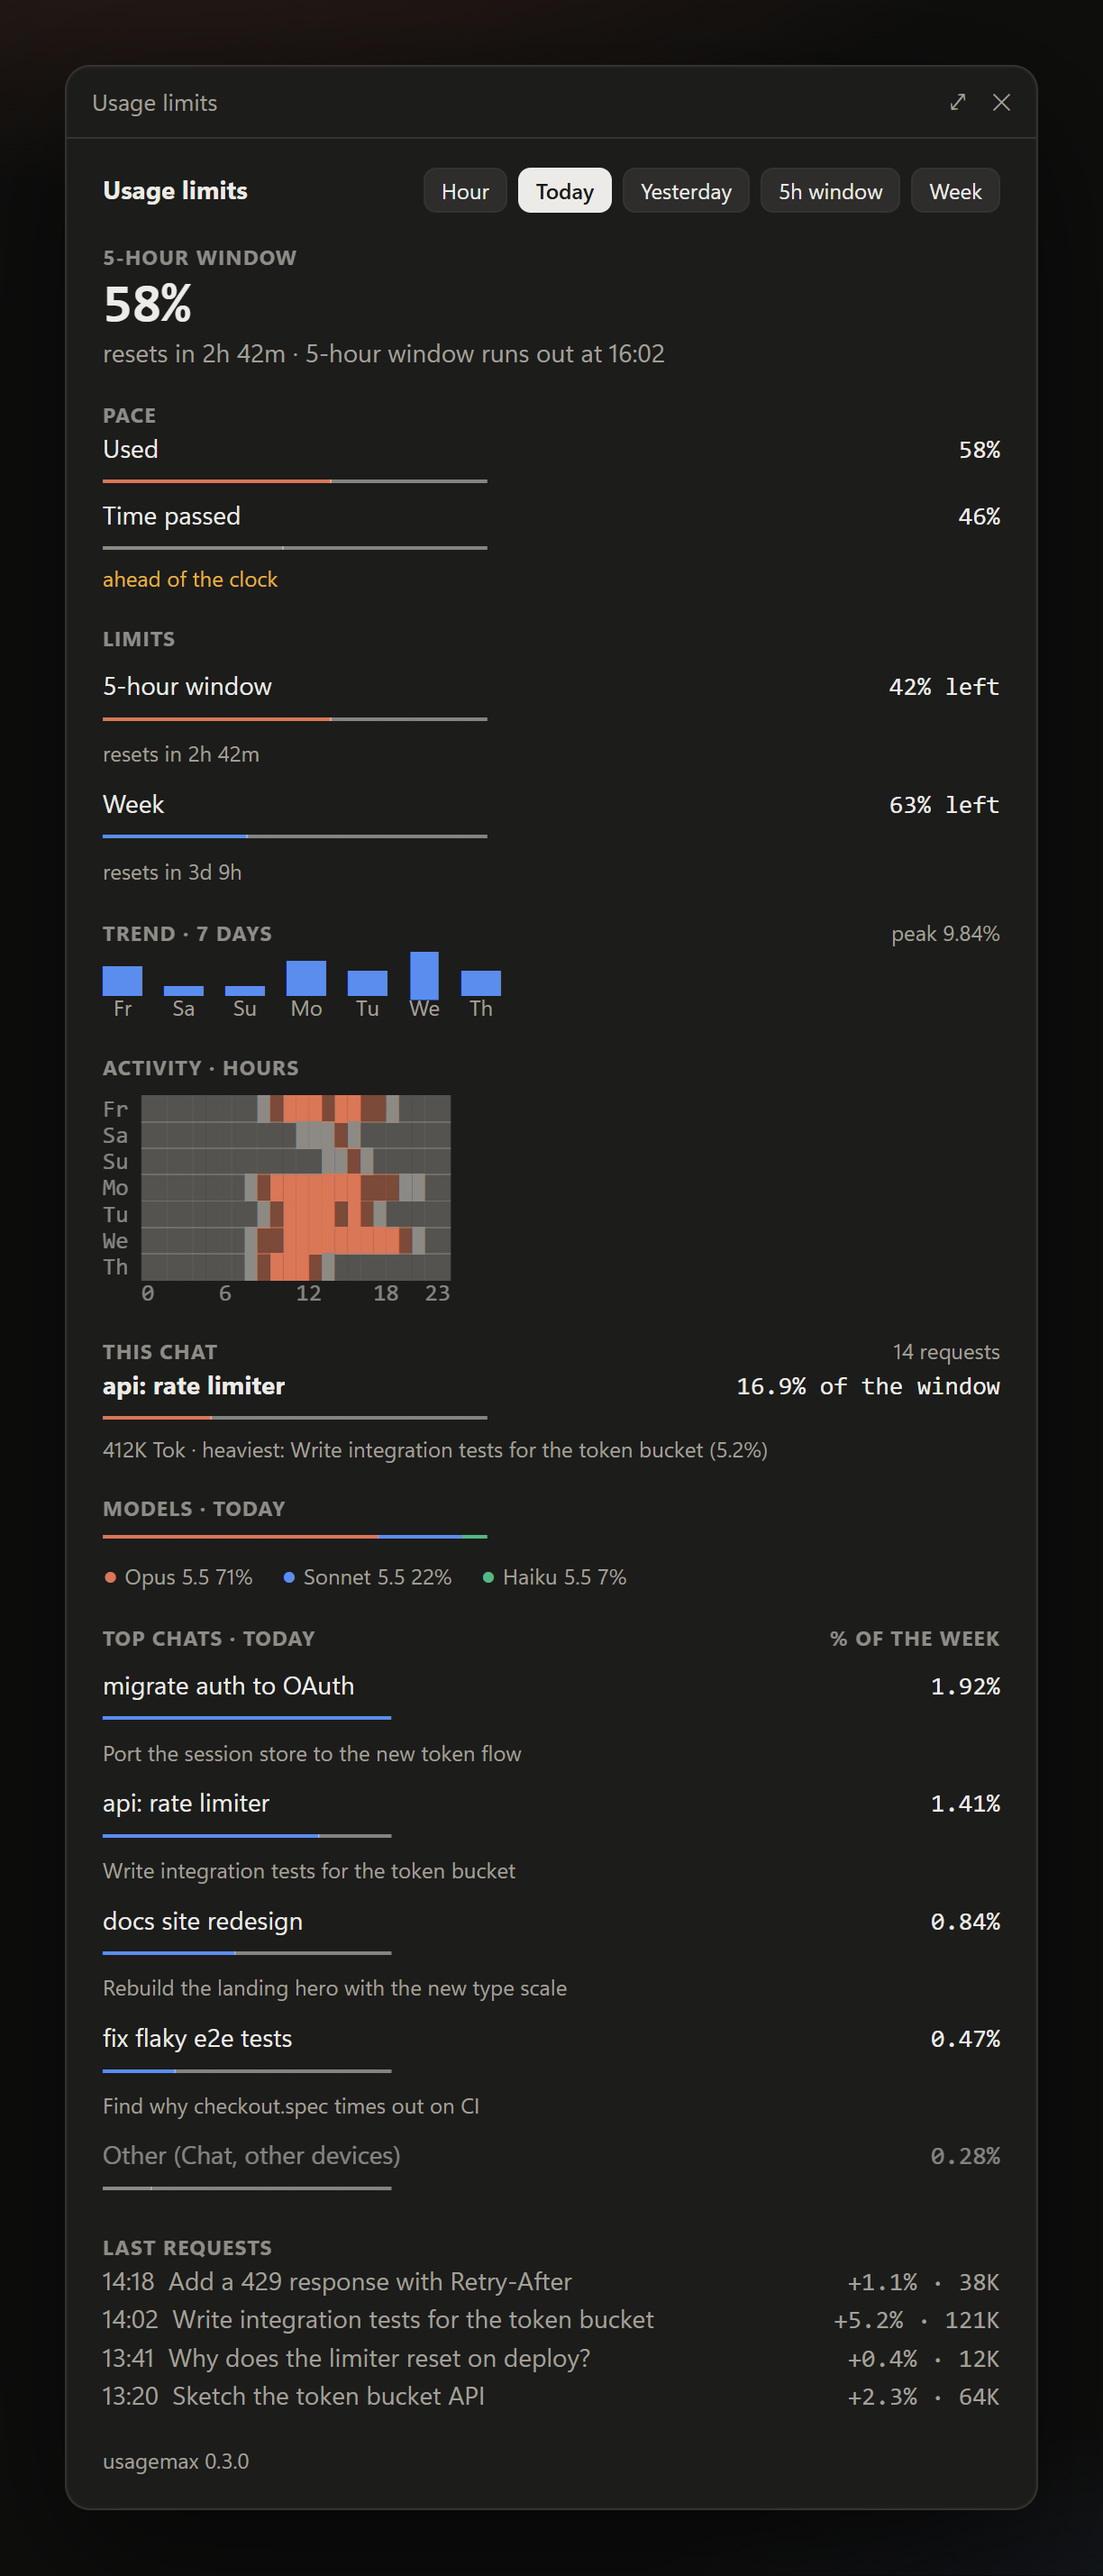
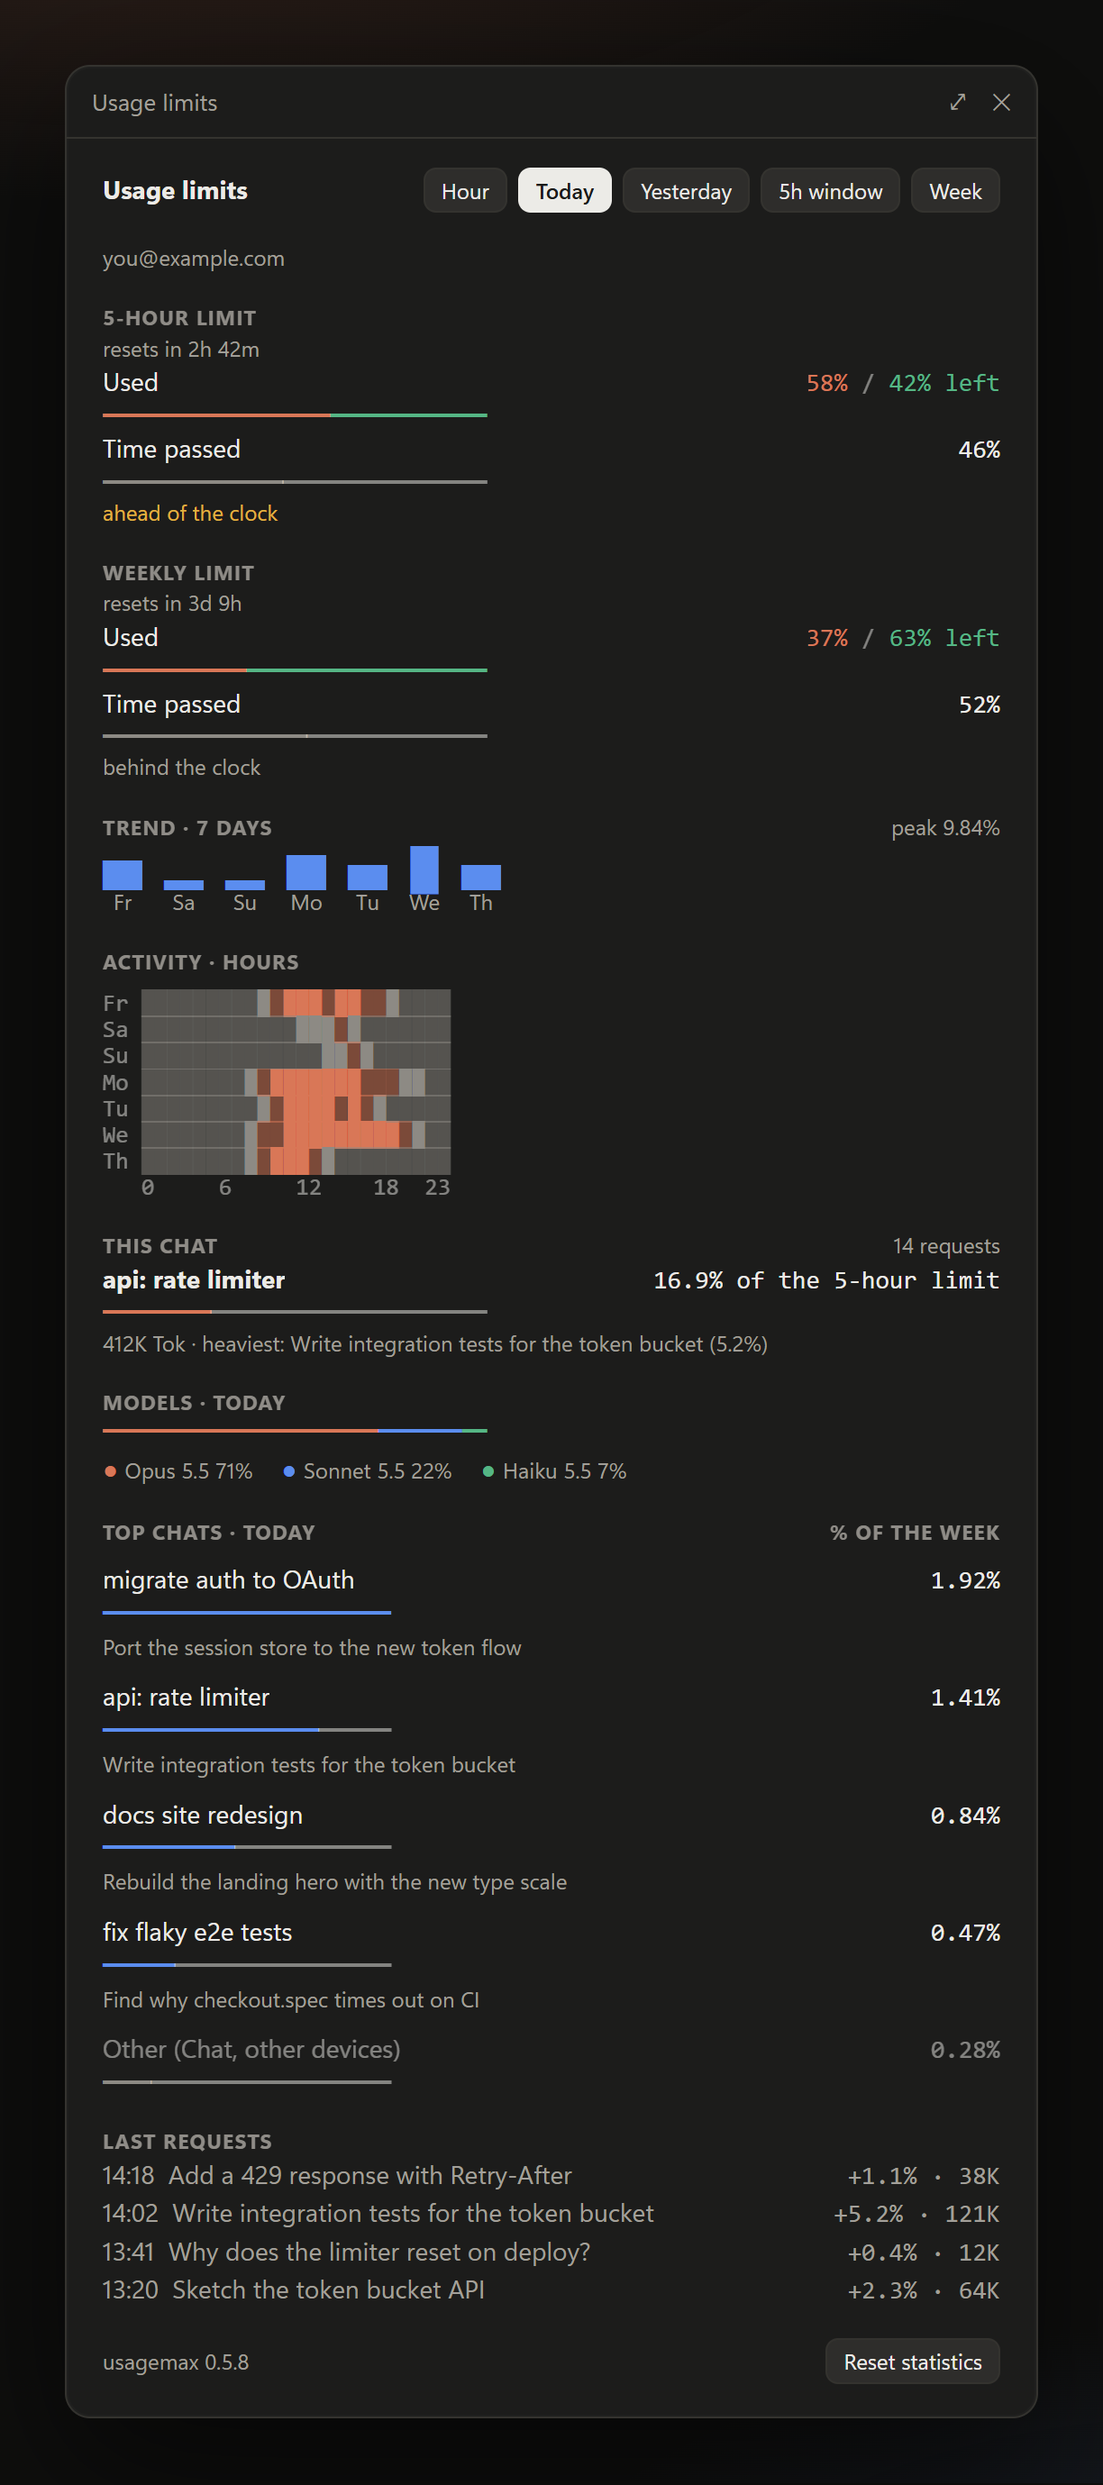
Redraw the panel screenshot for 0.5.8

diff --git a/site/index.html b/site/index.html
@@ -152,7 +152,7 @@
       <li><strong>Your account</strong>: each Claude account sees only its own chats</li>
       <li><strong>Reset statistics</strong>: two presses start this account's numbers over</li>
     </ul>
-    <img src="assets/screenshots/panel.png" alt="usagemax panel with limits, pace, trend, heatmap, models and top chats" width="612" height="1429" loading="lazy">
+    <img src="assets/screenshots/panel.png" alt="usagemax panel with the 5-hour and weekly limits, trend, heatmap, models and top chats" width="612" height="1379" loading="lazy">
   </div>
 
   <h2>A band and toasts</h2>
